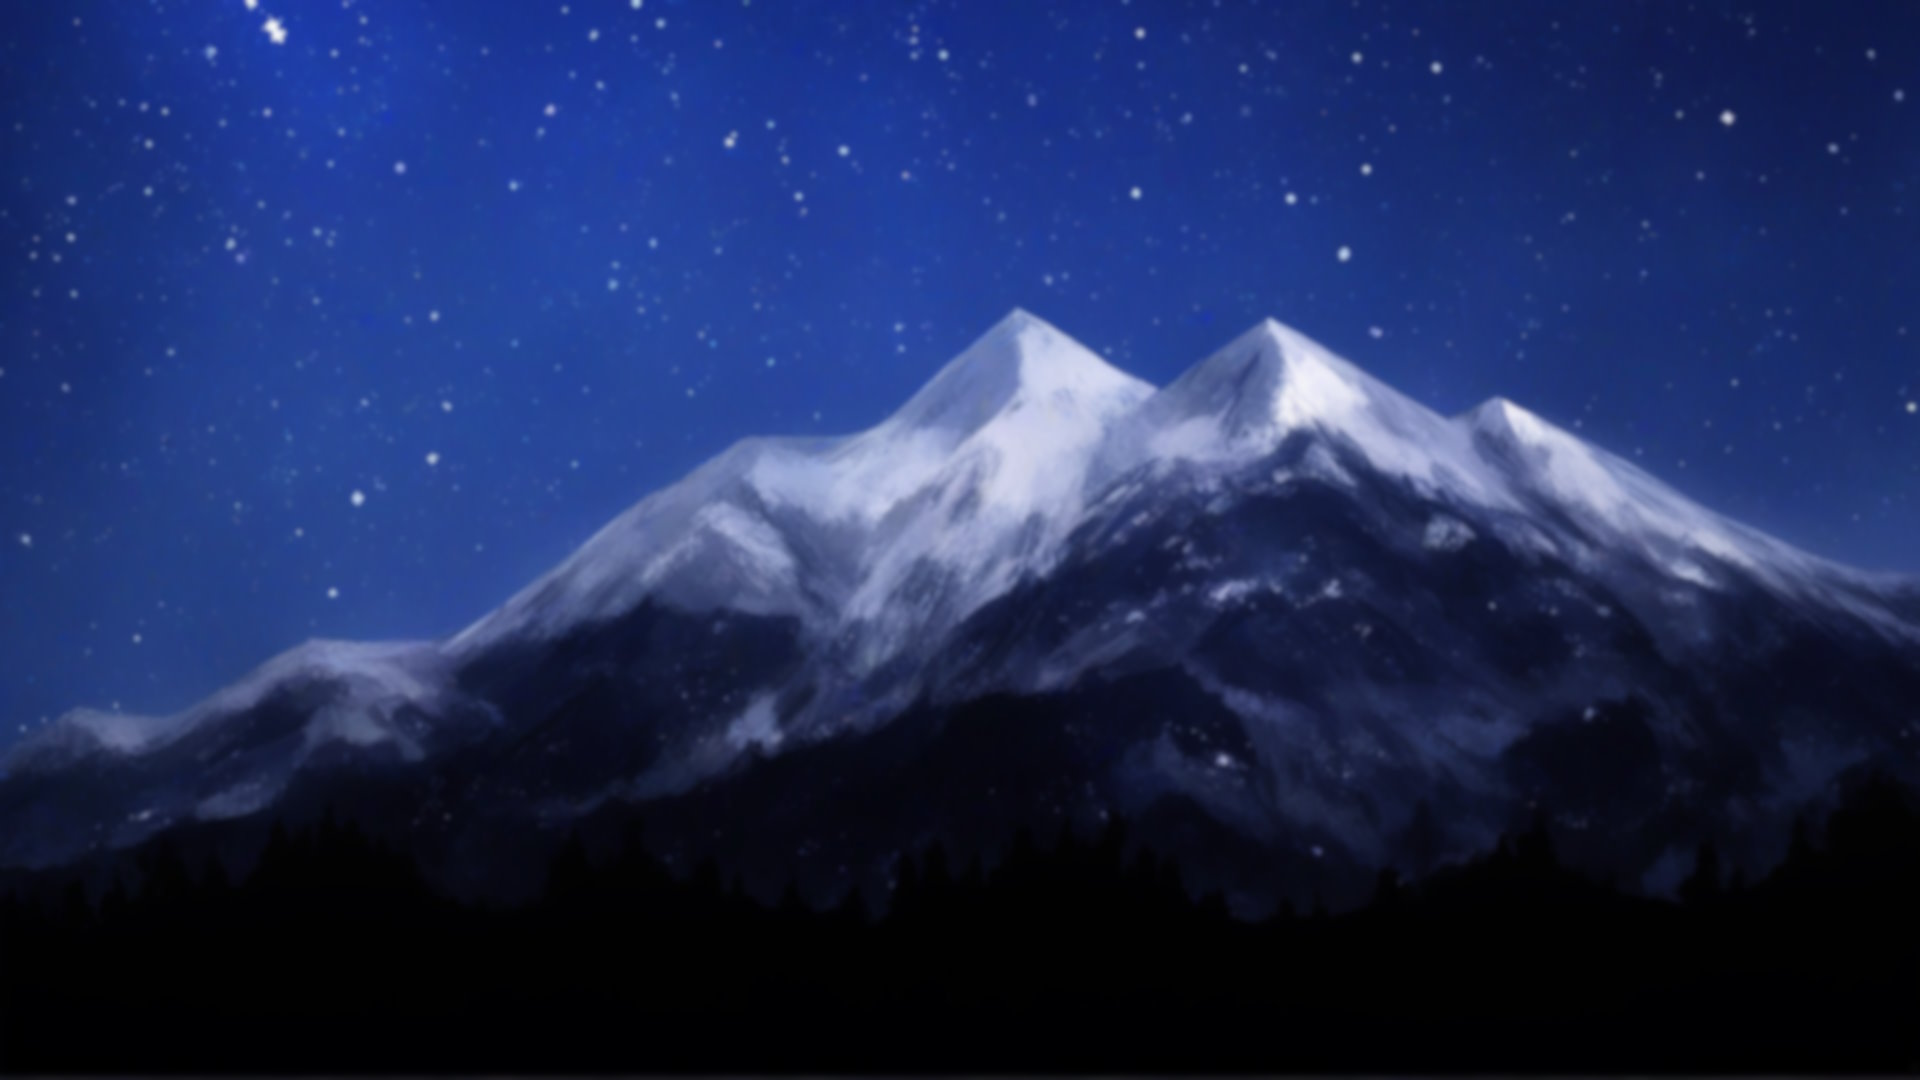
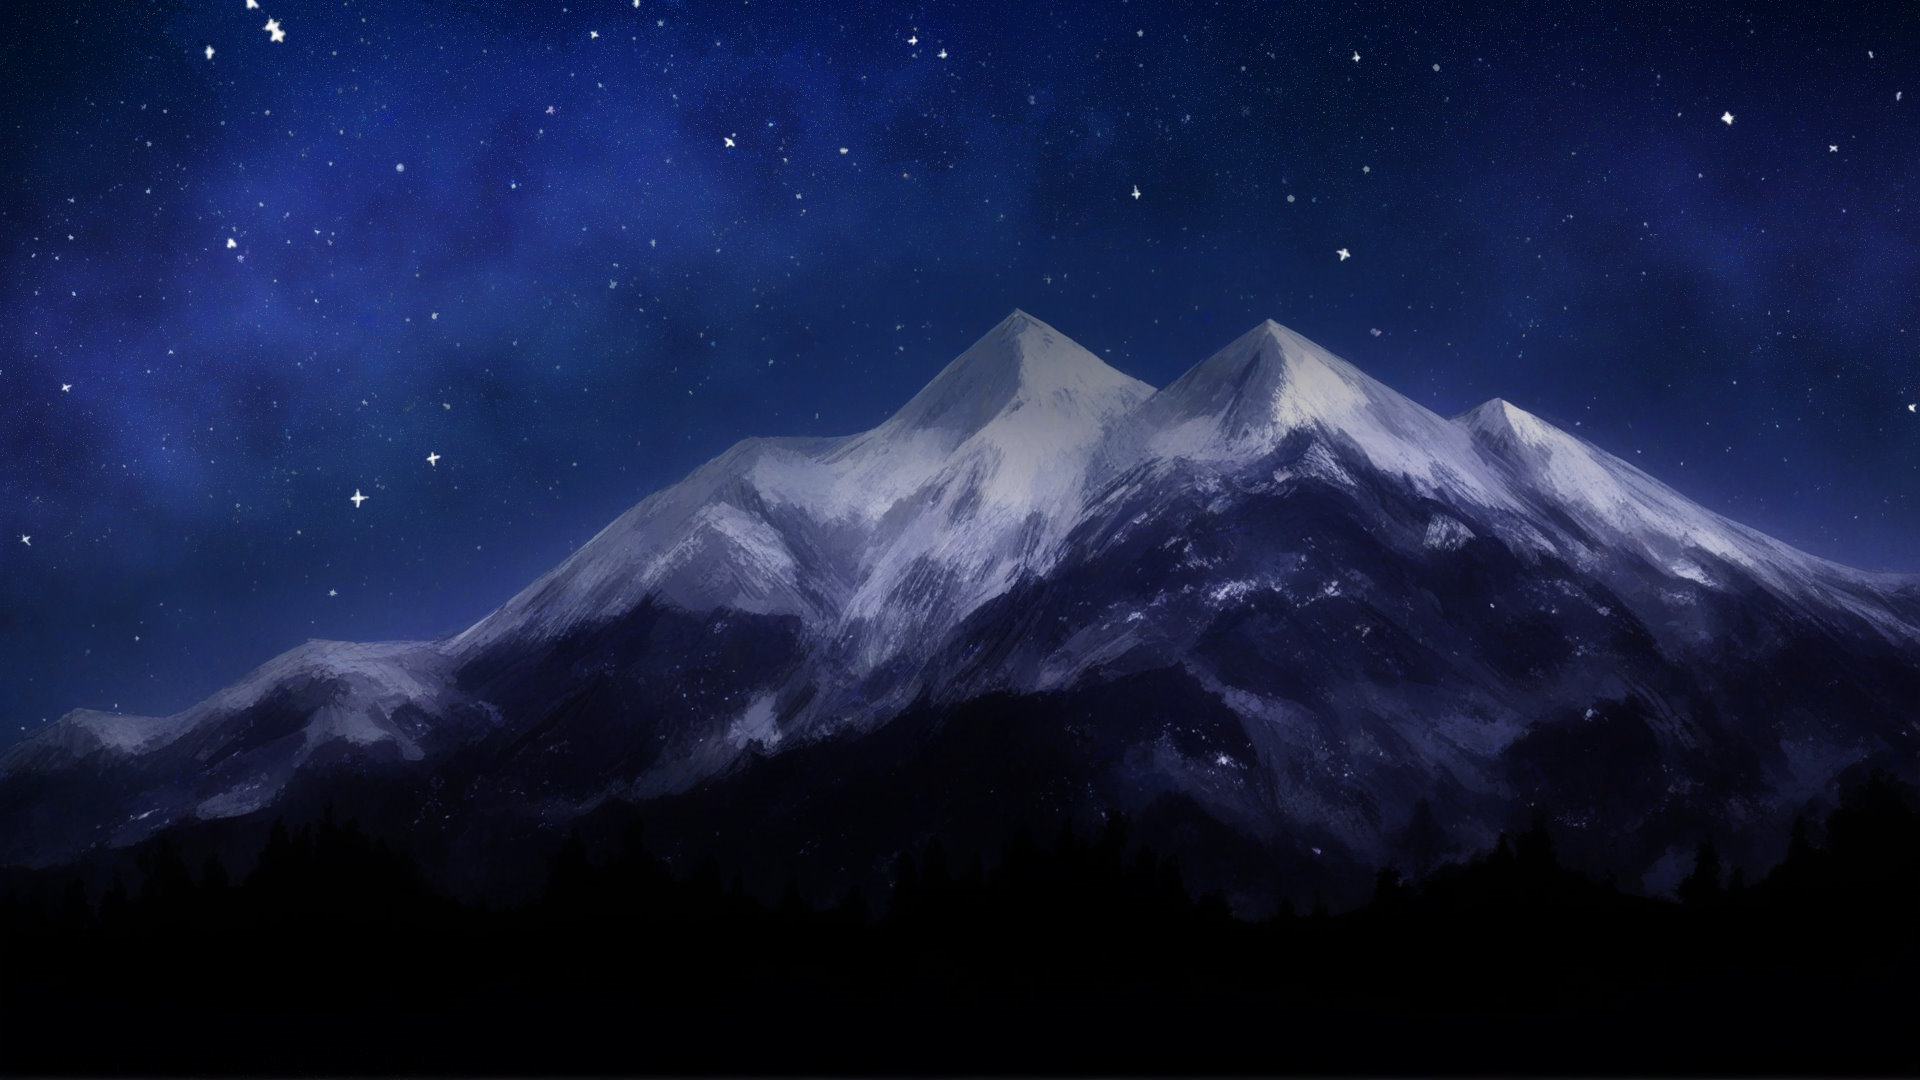
change bg, add mobile menu

diff --git a/src/main/windows/Window.jsx b/src/main/windows/Window.jsx
@@ -34,6 +34,7 @@ export default memo(function Window({
 }) {
   const windowRef = useRef(null);
   const draggableRef = useRef(null);
+  const menuRef = useRef(null);
 
   const collapsed = data?.collapsed;
   const expanded = data?.expanded;
@@ -105,6 +106,11 @@ export default memo(function Window({
 
   function setCurrent() {
     dispatch(setCurrentWindowById(id));
+  }
+
+  function toggleMenu() {
+    if (!menuRef?.current) return;
+    $(menuRef.current).toggleClass("active");
   }
 
   useEffect(() => {
@@ -190,7 +196,18 @@ export default memo(function Window({
           </div>
         </div>
         <div className="main">
-          {menu && <div className="left">{menu}</div>}
+          {menu && mobile && (
+            <img
+              className="menu-button"
+              src="img/menu.svg"
+              onClick={toggleMenu}
+            />
+          )}
+          {menu && (
+            <div className="left" ref={menuRef}>
+              {menu}
+            </div>
+          )}
 
           <div className="right">
             {!content && <ContentLoadError />}

diff --git a/src/main/windows/Window.css b/src/main/windows/Window.css
@@ -114,7 +114,9 @@
   -webkit-box-pack: justify;
   -ms-flex-pack: justify;
   justify-content: space-between;
-  background-color: rgba(23, 23, 45, 0.6);
+  /* Фоновое изображение гор слишком яркое */
+  /* background-color: rgba(23, 23, 45, 0.6); */
+  background-color: rgba(23, 23, 45, 0.7);
 }
 
 .window.current .header {
@@ -439,6 +441,29 @@
 @media screen and (min-width: 320px) and (max-width: 768px) {
   .window .main > .left {
     display: none;
+  }
+
+  .menu-button {
+    position: fixed;
+    z-index: 1;
+    user-select: none;
+    cursor: pointer;
+    height: 2em;
+    width: 2em;
+    background-color: #212125;
+    border-radius: 0 var(--radius1) var(--radius1) 0;
+  }
+
+  .window .main > .left.active {
+    display: initial;
+    position: fixed;
+    min-width: calc(100vw - 2em);
+    height: calc(
+      100vh - (var(--height-footer) + var(--height-header)) -
+        var(--window-header) - 4em
+    );
+    padding: 1em;
+    padding-top: 3em;
   }
 
   .window.expanded .right {
